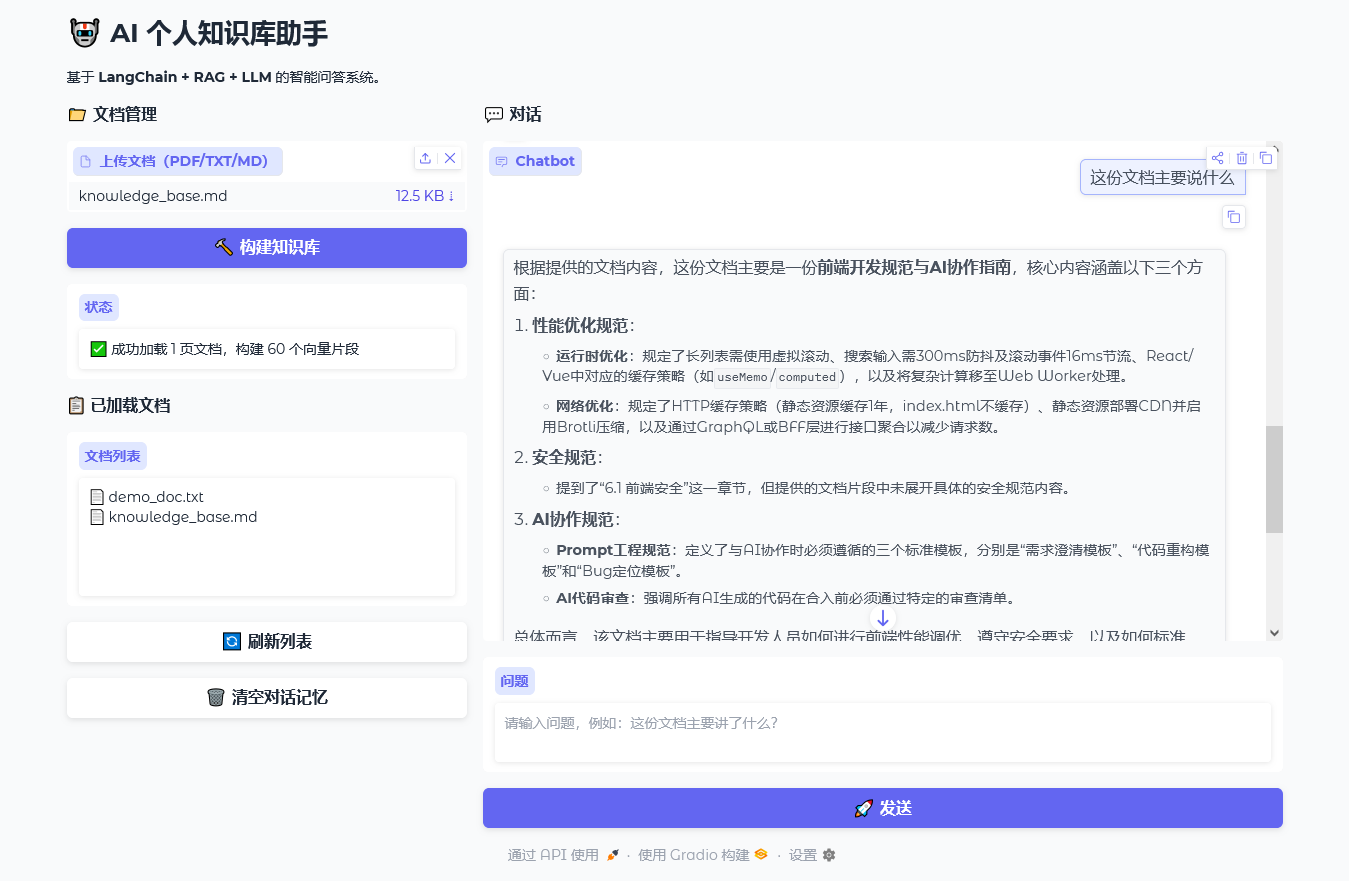
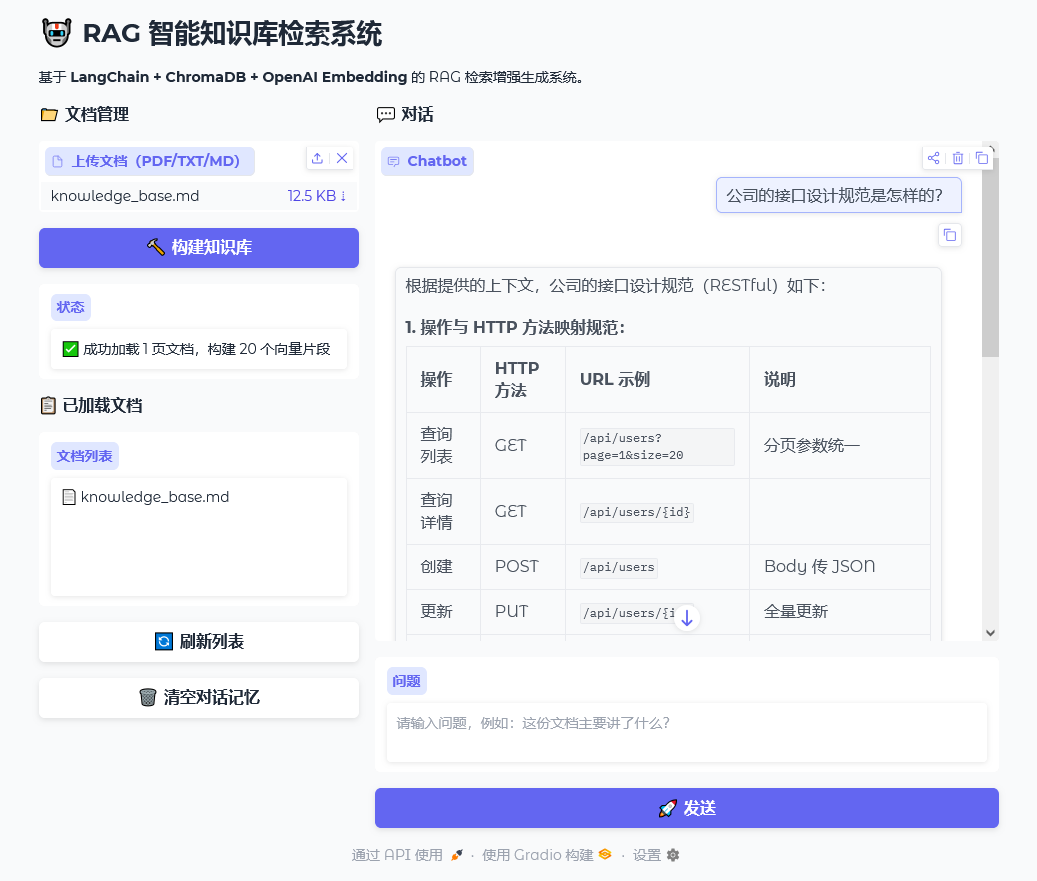
chore: Update related documents

diff --git a/src/app.py b/src/app.py
@@ -1,5 +1,5 @@
 """
-AI Knowledge Assistant - Web 界面
+RAG-Knowledge-Base - Web 界面
 基于 Gradio 的个人知识库问答助手
 """
 import os
@@ -106,11 +106,11 @@ def list_docs():
     return "\n".join([f"📄 {os.path.basename(d)}" for d in docs])
 
 # ========== Gradio 界面 ==========
-with gr.Blocks(title="AI Knowledge Assistant") as demo:
+with gr.Blocks(title="RAG-Knowledge-Base") as demo:
     gr.Markdown("""
-    # 🤖 AI 个人知识库助手
-
-    基于 **LangChain + RAG + LLM** 的智能问答系统。
+    # 🤖 RAG 智能知识库检索系统
+    
+    基于 **LangChain + ChromaDB + OpenAI Embedding** 的 RAG 检索增强生成系统。
     """)
 
     with gr.Row():

diff --git a/README.md b/README.md
@@ -1,7 +1,6 @@
-# AI Knowledge Assistant - 个人知识库助手
+# RAG Knowledge Base — 智能知识库检索系统
 
-基于 LangChain + RAG + LLM 的个人知识库问答助手，支持多轮对话、文档上传与智能检索。
-> 另有更好的交互体验 **[TypeScript 全栈版本](https://github.com/koen301/AI-Knowledge-Assistant-ts)**
+基于 **LangChain + ChromaDB + OpenAI Embedding** 的 RAG 检索增强生成系统，支持多轮对话、文档上传与智能检索。
 
 ## 核心特点
 
@@ -16,8 +15,8 @@
 ### 1. 克隆项目 & 安装依赖
 
 ```bash
-git clone https://github.com/koen301/ai-knowledge-assistant.git
-cd ai-knowledge-assistant
+git clone https://github.com/koen301/RAG-Knowledge-Base.git
+cd RAG-Knowledge-Base
 pip install -r requirements.txt
 ```
 